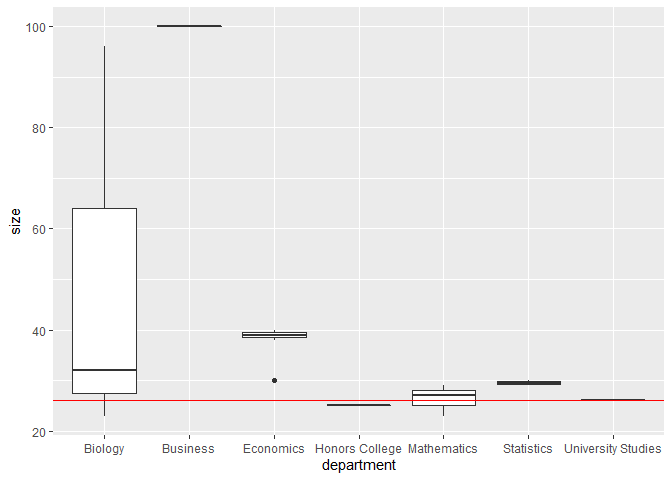
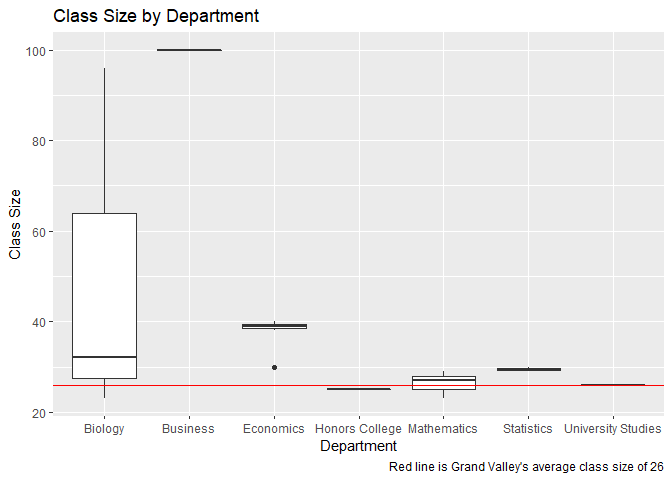
added new graphs.

diff --git a/corona-college.md b/corona-college.md
@@ -7,6 +7,7 @@ Jason Smith
 library(readxl)
 library(tidyverse)
 class_sizes <- read_excel("data/class_sizes.xlsx")
+h <- 26
 ```
 
 ``` r
@@ -39,7 +40,12 @@ in_person %>%
   geom_hline(yintercept = 26, color = "red")+
   facet_wrap("year")+
   theme(axis.text.x = element_blank())+
-  theme(axis.ticks.x = element_blank())
+  theme(axis.ticks.x = element_blank())+
+  labs(
+    title = "Class Size by Year",
+    x = "",
+    y = "Class Size",
+    caption = "Red line is Grand Valley's average class size of 26")
 ```
 
 ![](corona-college_files/figure-gfm/unnamed-chunk-4-1.png)<!-- -->
@@ -71,7 +77,12 @@ in_person %>%
 in_person %>% 
   ggplot(aes(x = department, y = size))+
   geom_boxplot()+
-  geom_hline(yintercept = 26, color = "red")
+  geom_hline(yintercept = 26, color = "red")+
+  labs(
+    title = "Class Size by Department",
+    x = "Department",
+    y = "Class Size",
+    caption = "Red line is Grand Valley's average class size of 26")
 ```
 
 ![](corona-college_files/figure-gfm/unnamed-chunk-6-1.png)<!-- -->
